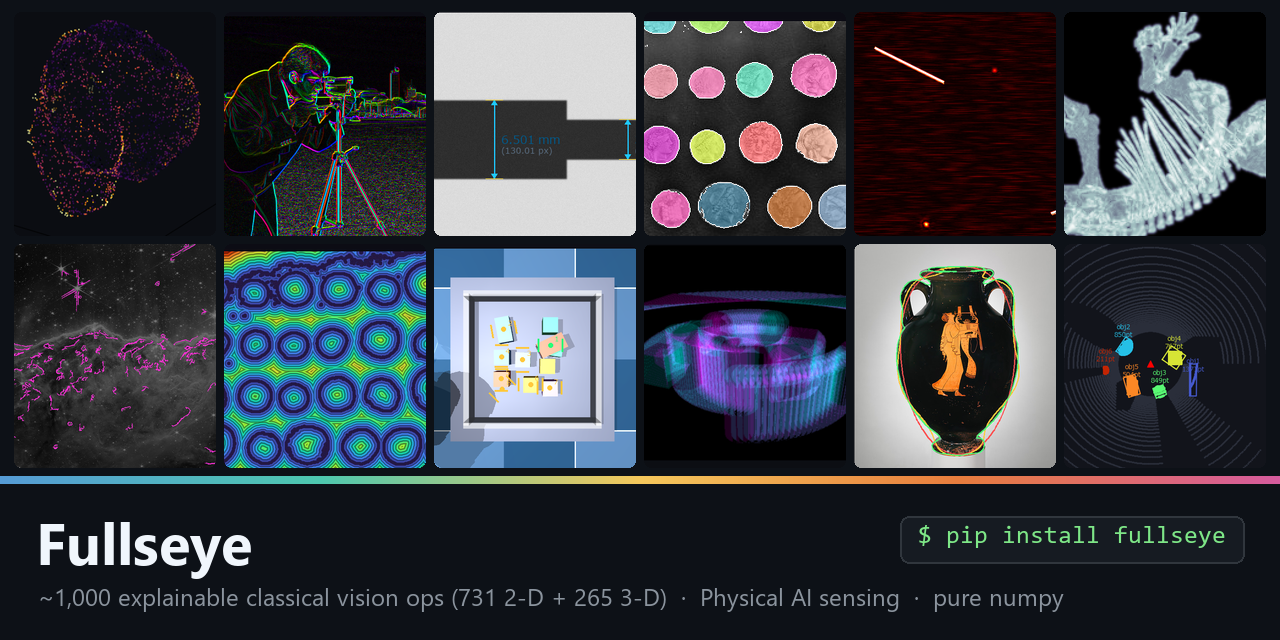
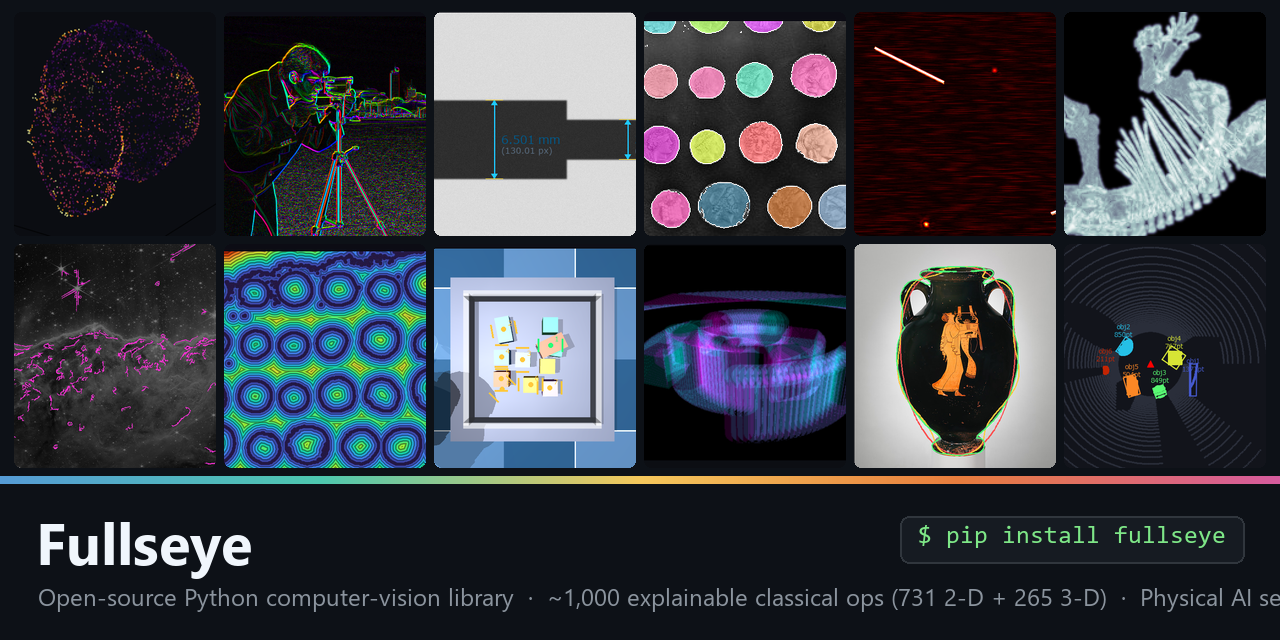
auto: gen_banner.py 編集前 (2026-08-30 18:18)

Changed region(s): [[0.0312, 0.9062, 1.0, 0.9688]]

diff --git a/tools/gen_banner.py b/tools/gen_banner.py
@@ -186,8 +186,9 @@ MOSAIC_TAGLINE = ("Open-source Python computer-vision library · "
                   "~1,000 explainable classical ops (731 2-D + 265 3-D) · pure numpy")
 
 TITLE = "Fullseye"
-TAGLINE = ("~1,000 explainable classical vision ops "
-           "(731 2-D + 265 3-D)  \u00b7  Physical AI sensing  \u00b7  pure numpy")
+TAGLINE = ("Open-source Python computer-vision library  \u00b7  "
+           "~1,000 explainable classical ops (731 2-D + 265 3-D)  \u00b7  "
+           "Physical AI sensing  \u00b7  pure numpy")
 PIP_CMD = "$ pip install fullseye"
 
 
